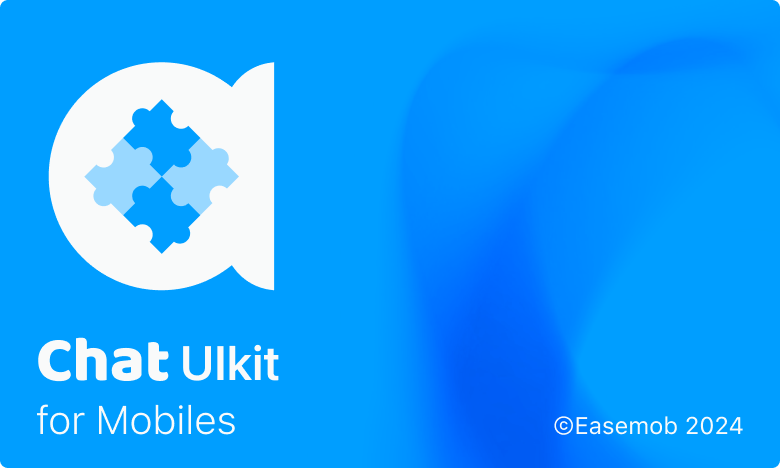
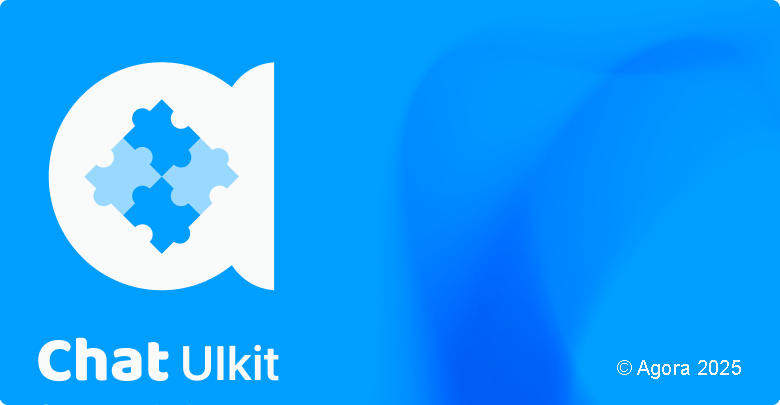
Merge Updates 2025 01 (#33)
* update-image

* Add files via upload

* Update README.md

* Update README.md

Changed region(s): [[0.0308, 0.1185, 0.3692, 0.9481], [0.7077, 0.8593, 0.9538, 1.0]]

diff --git a/README.md b/README.md
@@ -2,11 +2,11 @@
 
 ![Cover Image](1-to-1-and-group-chats/assets/images/CUIcover2.png)
 
-Refer to the following design guides:
+Instant messaging connects people wherever they are and allows them to communicate with others in real time. Agora offers Chat UI Kit with built-in user interfaces (UI) for key Chat features, the Agora Chat UI Kit enables you to quickly embed real-time messaging into your app without requiring extra effort on the UI.
 
 ## 1-to-1 and Group Chats
 
-[**Design guide**](1-to-1-and-group-chats/design-guide.md)
+Agora UIKit for one-to-one and group chats is an instant messaging UI component library developed based on Agora Chat SDK. It provides various components to implement features such as a conversation list, chat UI, and contact list. To quickly build instant messaging applications based on the particular business needs, refer to the documentation for your development platform.
 
 <details>
 <summary>Android</summary>
@@ -126,10 +126,14 @@ Refer to the following design guides:
     - [User information](1-to-1-and-group-chats/react/integrate/user-information.md)
 </details>
 
+[**Design guide**](1-to-1-and-group-chats/design-guide.md)
+
+**Figma assets:**
+- [Web](https://www.figma.com/community/file/1462016929921662608/agora-chat-uikit-for-web)
+- [Mobiles](https://www.figma.com/community/file/1462018524524243606/agora-chat-uikit-for-mobiles)
+
 ## Chat Room
-
-[**Design guide**](chat-room/design-guide.md)
-
+Agora UIKit for Chat Room provides various components to quickly build chat room applications for your particular business needs. Through this UIKit, users in the chat room can interact in real time and send messages, gifts, and global broadcasts. Refer to the following documentation for your development platform.
 
 <details>
 <summary>Android</summary>
@@ -216,3 +220,8 @@ Refer to the following design guides:
     - [Theme](chat-room/react/theme.md)
 
 </details>
+
+[**Design guide**](chat-room/design-guide.md)
+
+**Figma assets:**
+- [Web and mobiles](https://www.figma.com/community/file/1462020408049722010/agora-chat-chatroom-uikit-for-mobiles-and-web)
